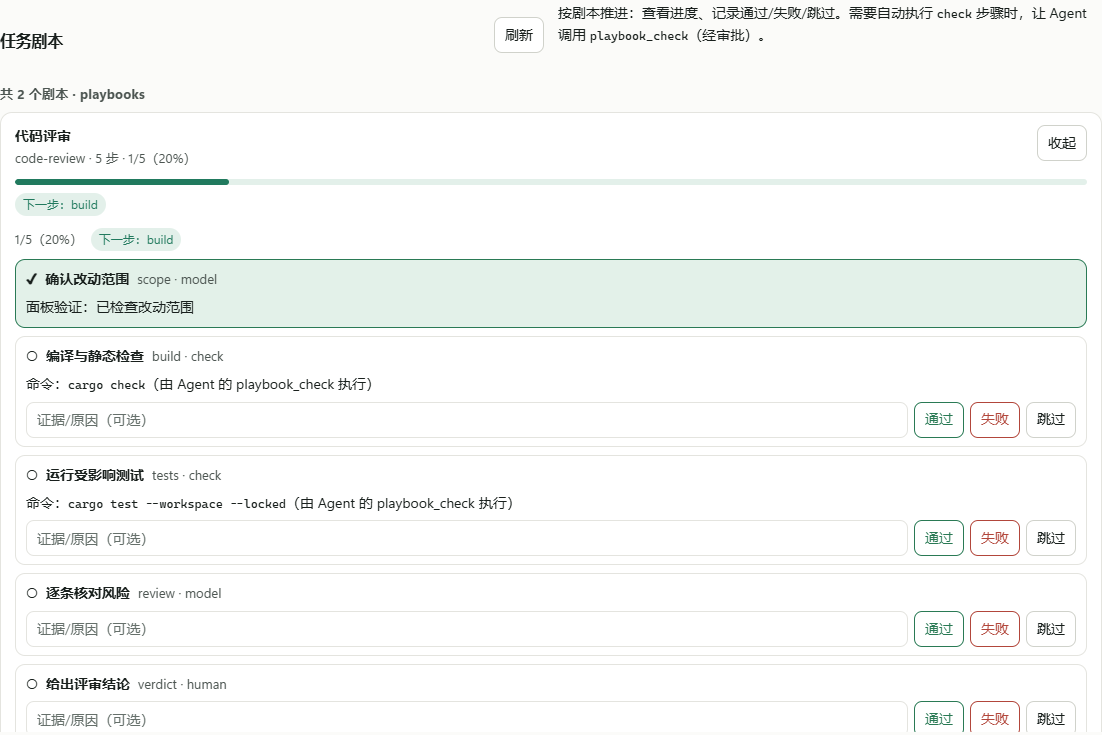
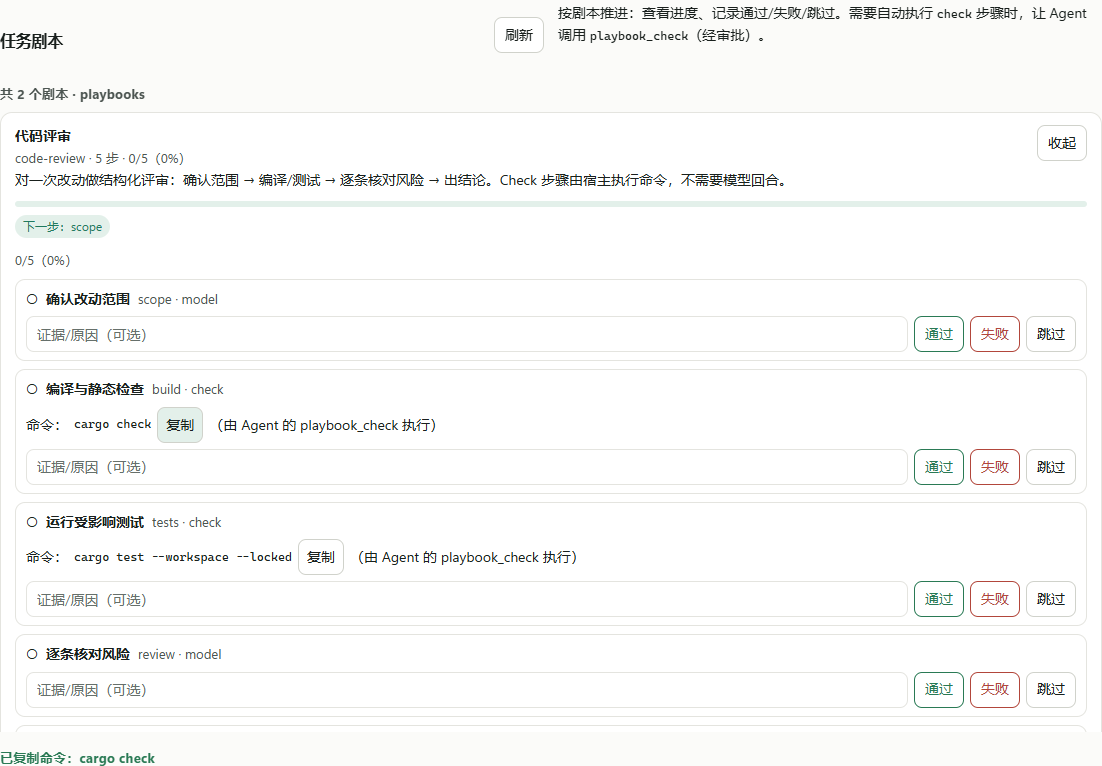
feat(desktop-ui): 任务剧本面板完善——描述、命令复制、焦点可见
- 列表卡片显示剧本 description（API list/status 增加该字段，纯附加）；检查步骤的命令行增加「复制」按钮（navigator.clipboard，成功/失败都有提示）。
- 提示区区分成功/失败样式（.owo-pb-ok）；按钮/输入框增加 :focus-visible 轮廓，键盘可达性可见。
- 真实页面验证：卡片显示描述；两个 check 步骤各一个复制按钮；点击后通知「已复制命令：cargo check」且剪贴板内容一致；0 console 错误；截图替换为最新版本。

验证：playbook_api 4 条通过；server fmt 干净、clippy -D warnings 归零；node --check 通过；Playwright 真实 daemon + 真实面板确认上述行为。

diff --git a/agent-sdk/desktop/web/panels/playbook.panel.js b/agent-sdk/desktop/web/panels/playbook.panel.js
@@ -104,7 +104,9 @@
         '<article class="owo-pb-card" data-path="' + esc(item.path) + '">' +
         '<div class="owo-pb-card-head"><div><b>' + esc(item.name || item.id || "未命名") + "</b>" +
         '<div class="sub">' + esc(item.id || "") + " · " + esc(item.steps || 0) + " 步 · " +
-        esc(summary) + "</div></div>" +
+        esc(summary) + "</div>" +
+        (item.description ? '<div class="hint">' + esc(item.description) + "</div>" : "") +
+        "</div>" +
         '<button type="button" class="owo-pb-toggle" data-pb-toggle="' + esc(item.path) + '">' +
         (expanded ? "收起" : "打开") + "</button></div>" +
         bar(progress) +
@@ -151,7 +153,10 @@
           "</div>";
       }
       var command = step.command
-        ? '<div class="hint">命令：<code>' + esc(step.command) + "</code>（由 Agent 的 playbook_check 执行）</div>"
+        ? '<div class="hint owo-pb-cmd">命令：<code>' + esc(step.command) + "</code>" +
+          '<button type="button" class="owo-pb-copy" data-pb-copy="' + esc(step.command) +
+          '" aria-label="复制步骤 ' + esc(step.id) + ' 的命令">复制</button>' +
+          "<span>（由 Agent 的 playbook_check 执行）</span></div>"
         : "";
       return (
         '<div class="owo-pb-step owo-pb-' + esc(step.state) + '">' +
@@ -179,10 +184,15 @@
     }
 
     function showError(root, message) {
+      notify(root, message, false);
+    }
+
+    function notify(root, message, ok) {
       var box = root.querySelector(".owo-pb-error");
       if (!box) return;
       box.hidden = !message;
       box.textContent = message || "";
+      if (box.classList) box.classList.toggle("owo-pb-ok", Boolean(ok));
     }
 
     function toggle(root, path) {
@@ -252,6 +262,23 @@
             recordButton.getAttribute("data-pb-record"),
             recordButton.getAttribute("data-pb-outcome")
           );
+          return;
+        }
+        var copyButton = target.closest("[data-pb-copy]");
+        if (copyButton) {
+          var command = copyButton.getAttribute("data-pb-copy") || "";
+          if (navigator.clipboard && navigator.clipboard.writeText) {
+            navigator.clipboard.writeText(command).then(
+              function () {
+                notify(root, "已复制命令：" + command, true);
+              },
+              function () {
+                notify(root, "复制失败，请手动选择命令", false);
+              }
+            );
+          } else {
+            notify(root, "当前环境不支持剪贴板，请手动选择命令", false);
+          }
         }
       });
     }

diff --git a/agent-sdk/desktop/web/visual-polish.css b/agent-sdk/desktop/web/visual-polish.css
@@ -526,3 +526,17 @@ body.panel-open #panelRoot > section[data-panel] { border: 0; border-radius: 0; 
   flex: 1 1 180px; min-width: 120px; border: 1px solid var(--border-strong);
   border-radius: 8px; padding: 5px 8px; font: inherit; background: var(--surface); color: var(--text);
 }
+
+.owo-pb-cmd { display: flex; gap: 6px; align-items: center; flex-wrap: wrap; }
+.owo-pb-copy {
+  border: 1px solid var(--border-strong); background: var(--surface); color: var(--text);
+  border-radius: 6px; padding: 1px 8px; font: inherit; cursor: pointer;
+}
+.owo-pb-copy:hover { background: var(--accent-soft); }
+.owo-pb-error.owo-pb-ok { color: var(--green); }
+.owo-pb-panel button:focus-visible,
+.owo-pb-panel input:focus-visible,
+.owo-pb-panel summary:focus-visible {
+  outline: 2px solid var(--accent);
+  outline-offset: 2px;
+}

diff --git a/agent-sdk/crates/owo-agent-server/src/playbook_api.rs b/agent-sdk/crates/owo-agent-server/src/playbook_api.rs
@@ -208,6 +208,7 @@ async fn list(State(state): State<std::sync::Arc<owo_agent_server::AppState>>) -
                 Ok(run) => playbooks.push(json!({
                     "id": playbook.id,
                     "name": playbook.name,
+                    "description": playbook.description,
                     "path": display,
                     "steps": playbook.steps.len(),
                     "ok": true,
@@ -218,6 +219,7 @@ async fn list(State(state): State<std::sync::Arc<owo_agent_server::AppState>>) -
                 Err(error) => playbooks.push(json!({
                     "id": playbook.id,
                     "name": playbook.name,
+                    "description": playbook.description,
                     "path": display,
                     "steps": playbook.steps.len(),
                     "ok": false,
@@ -281,6 +283,7 @@ async fn status(
         "ok": true,
         "id": playbook.id,
         "name": playbook.name,
+        "description": playbook.description,
         "path": file.to_string_lossy(),
         "state_file": state_path(&file).to_string_lossy(),
         "progress": progress_json(&playbook, &run),
